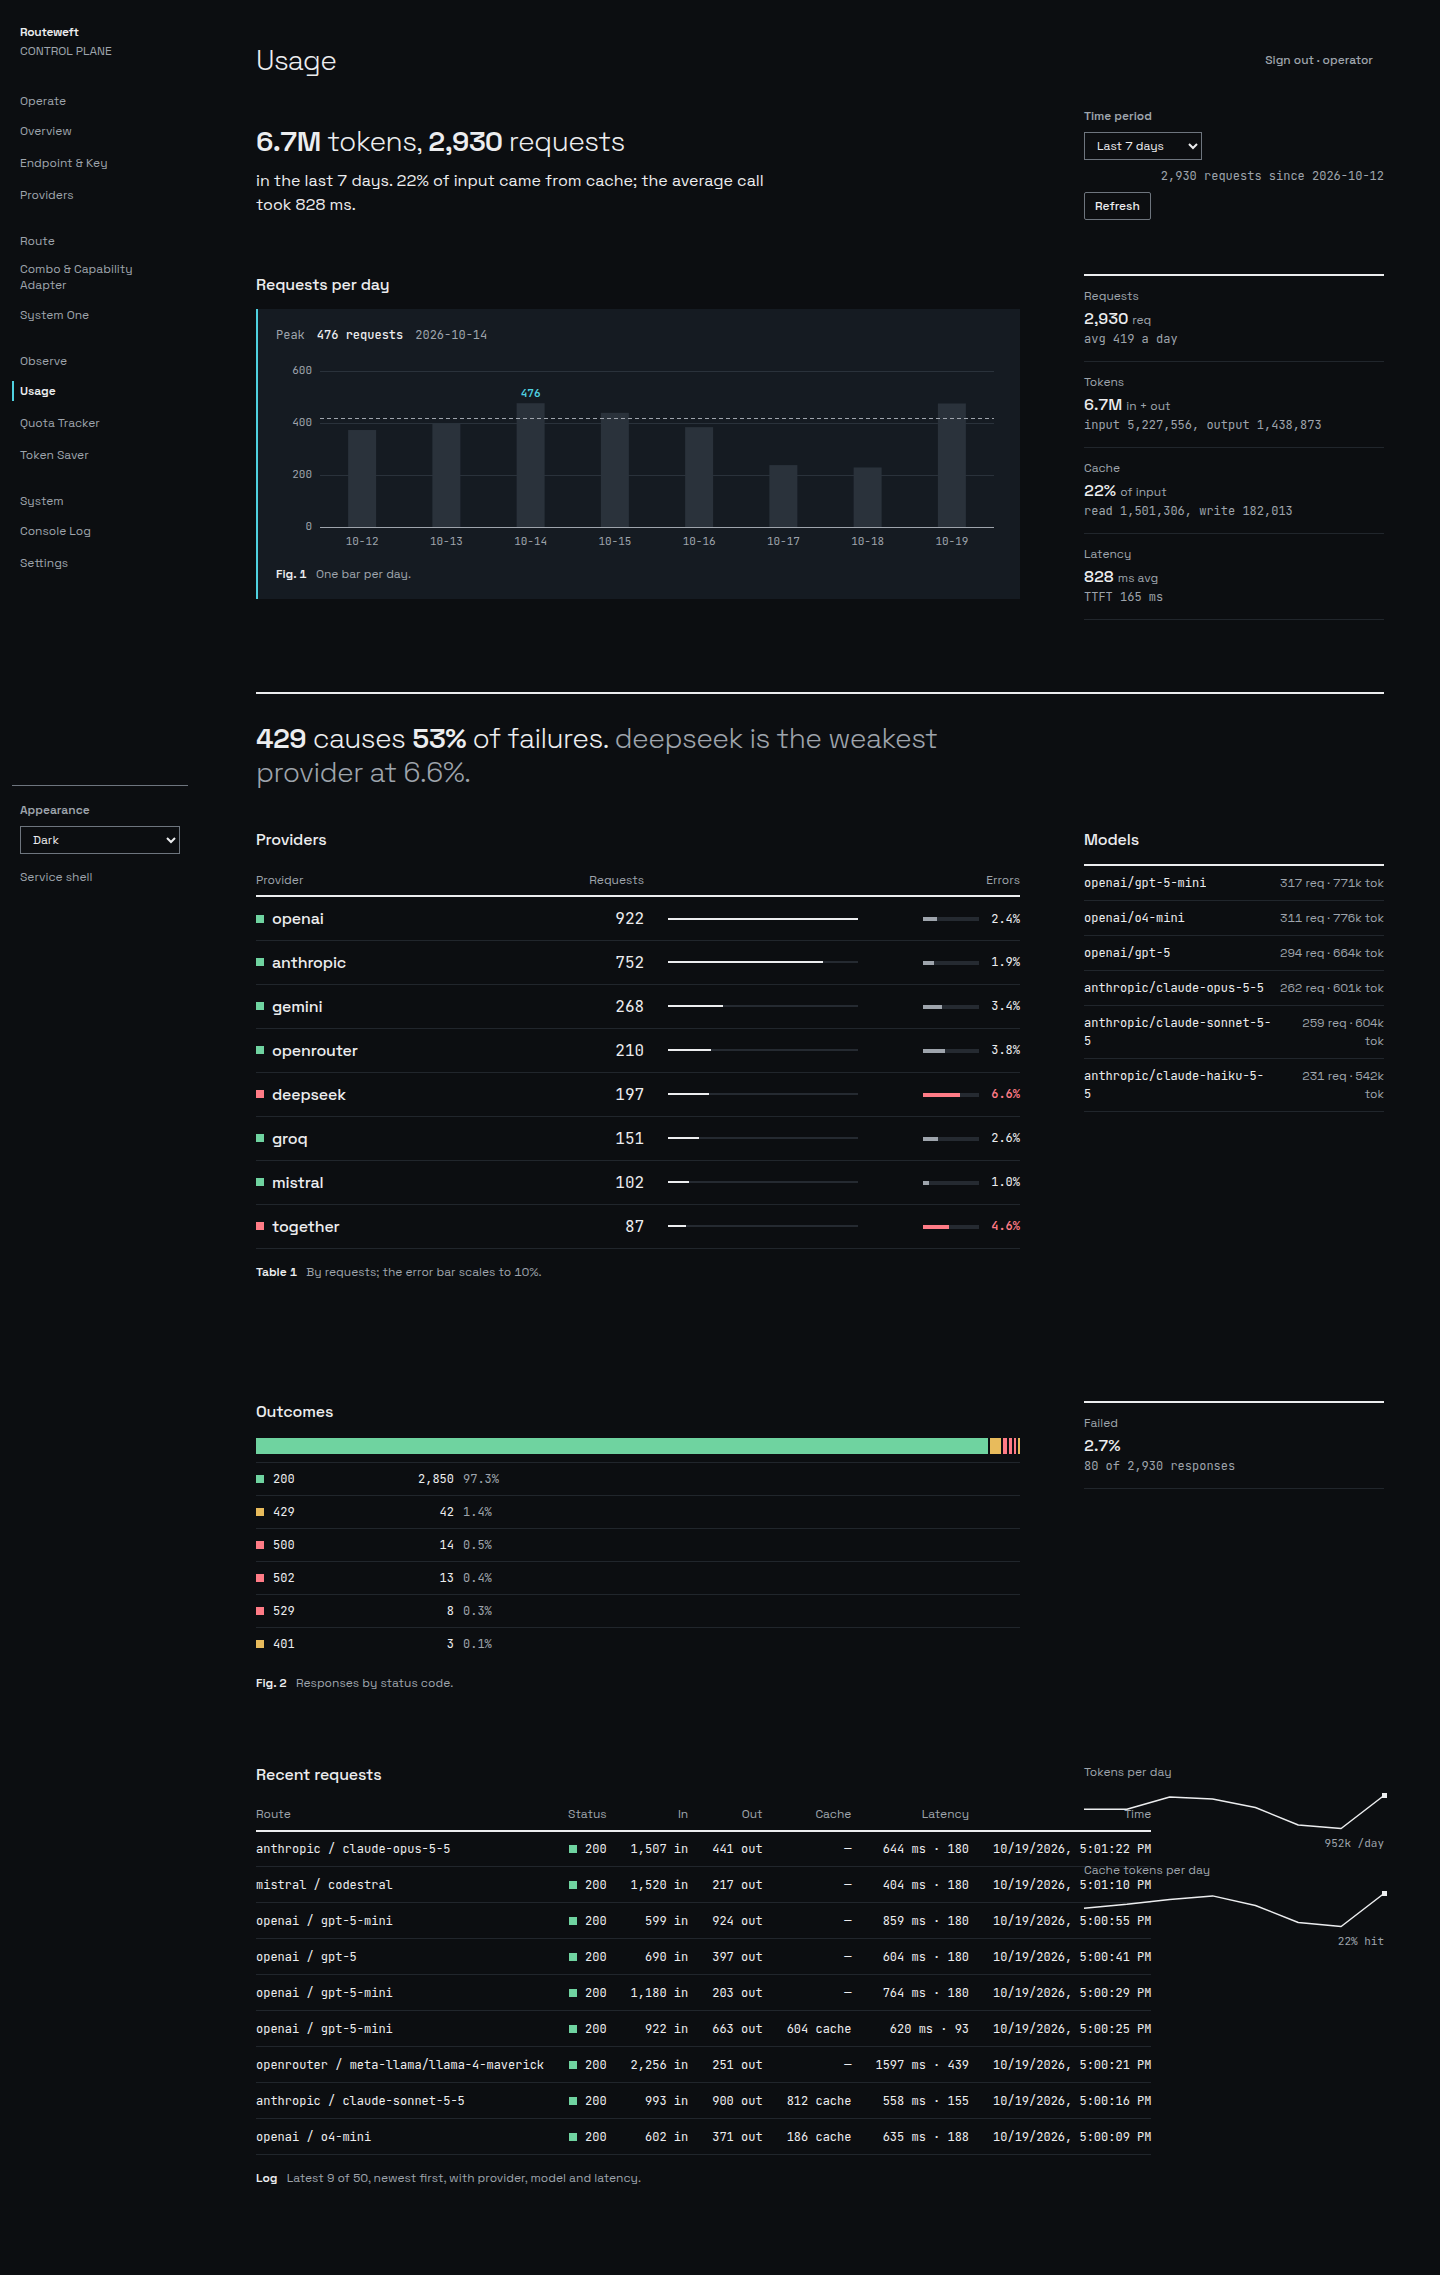
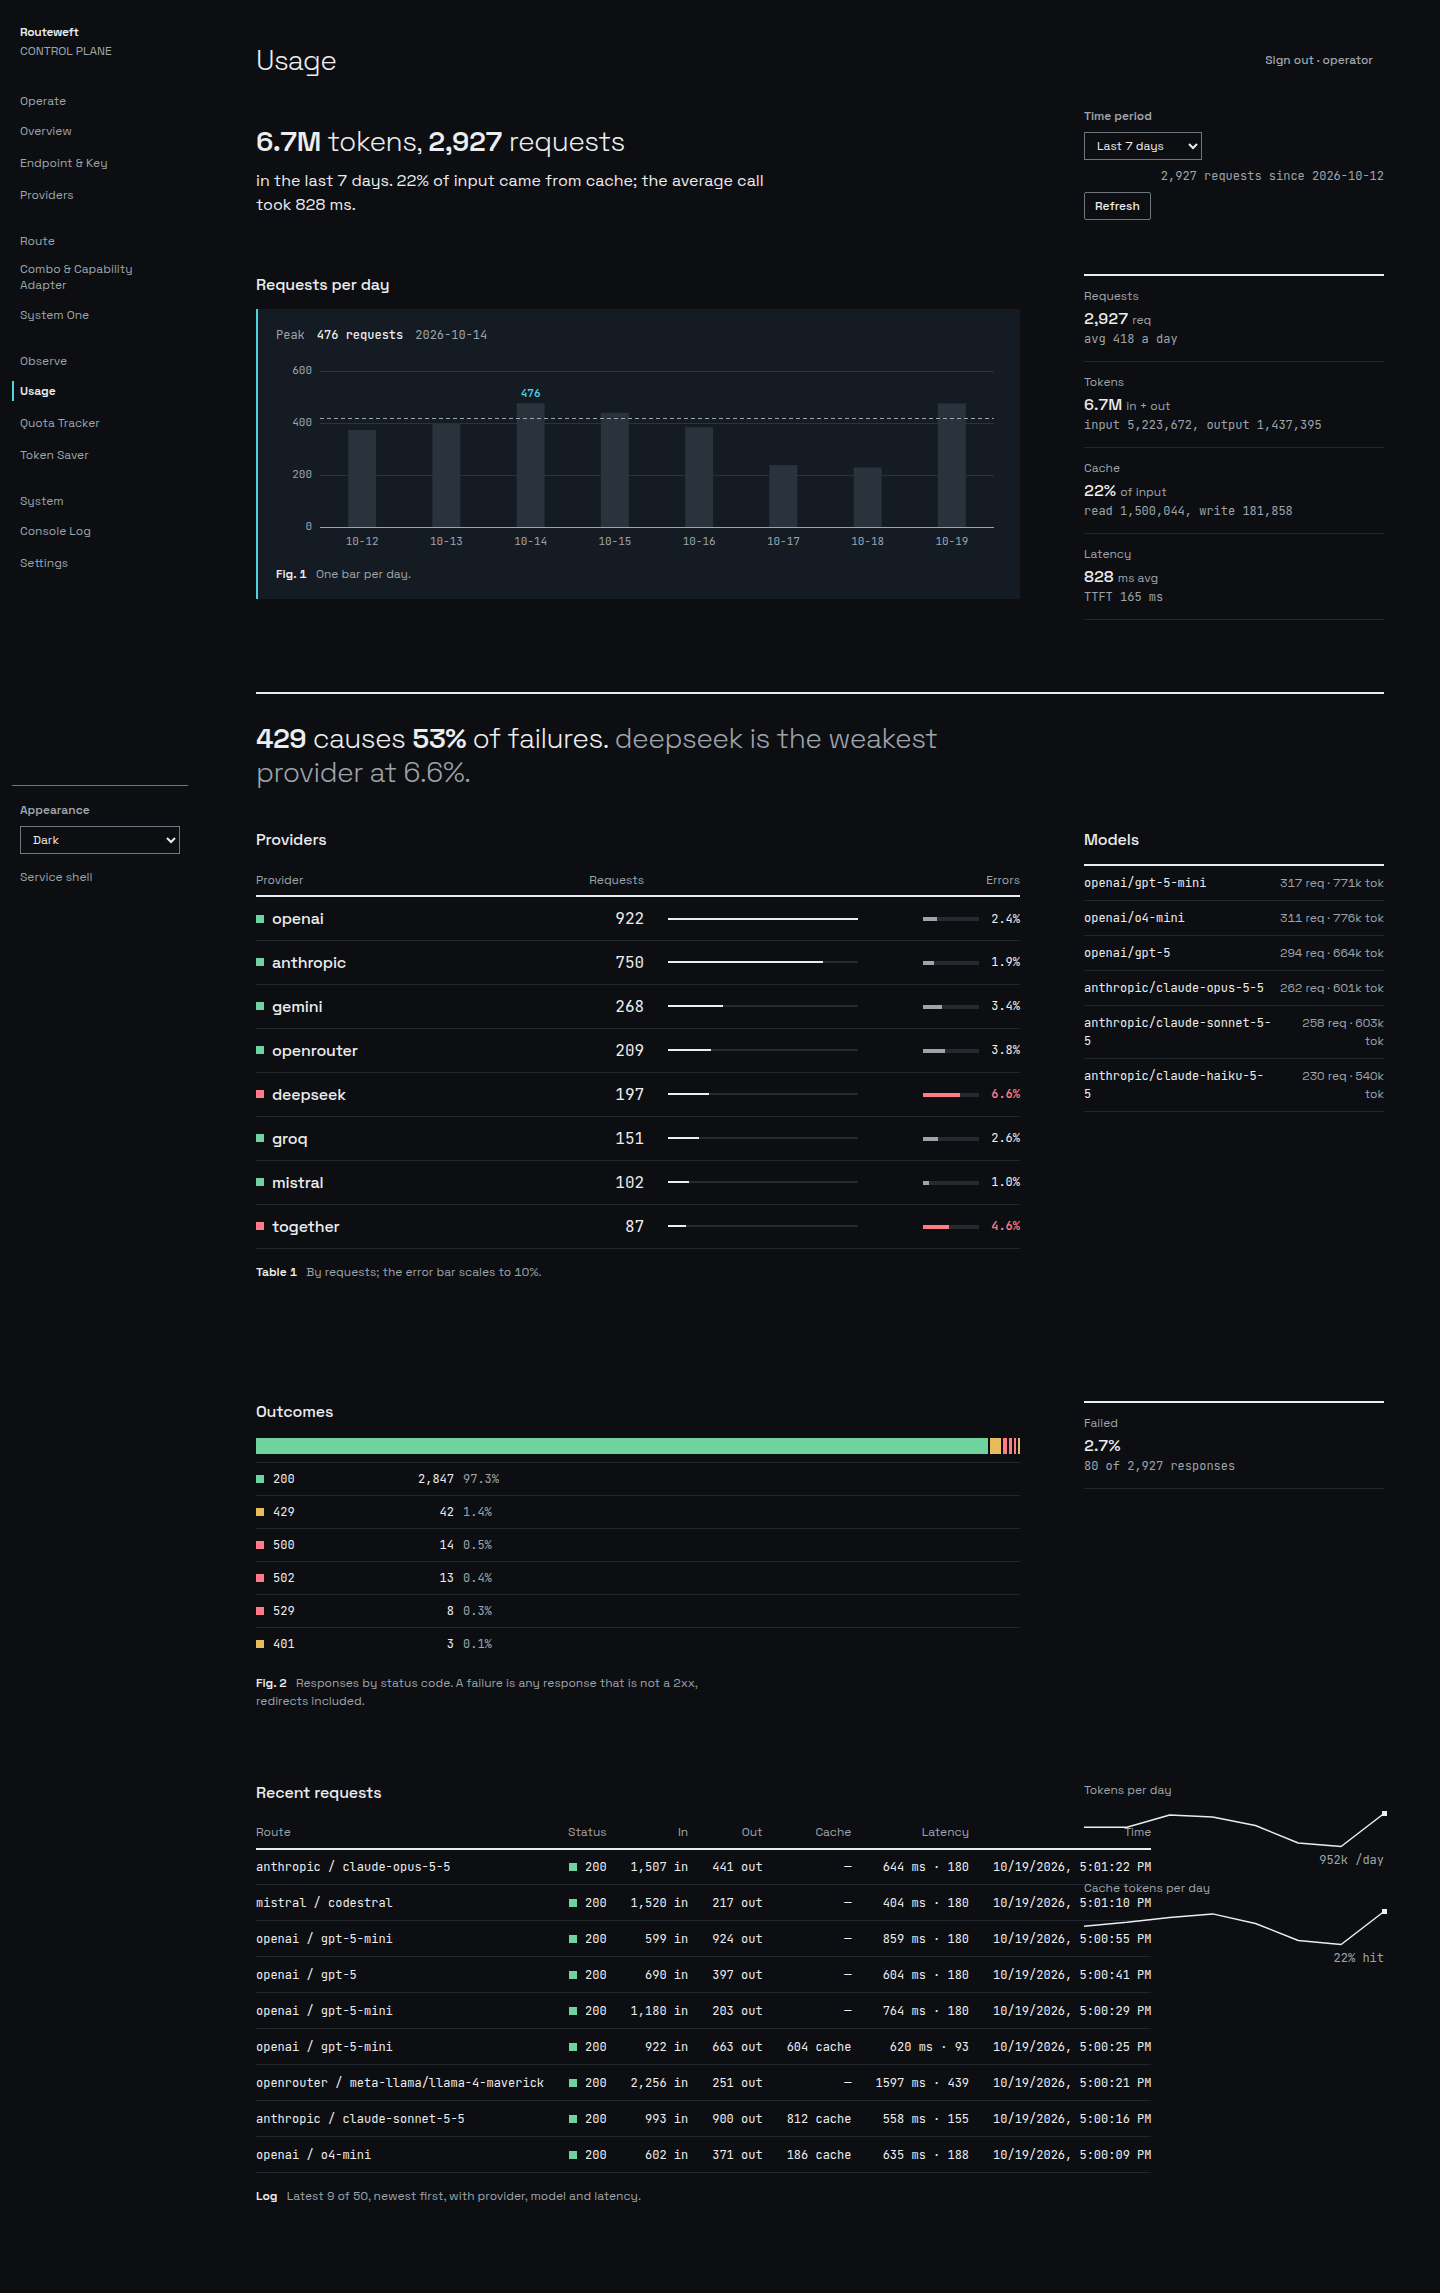
fix(ui): one definition of a failure, a real 11px check, and abortable usage fetch
- a failure is any non-2xx response, the API's own definition; isFailure() in format.ts is the single source, so Succeeded, Largest failure and the statement agree (3xx counts, its mark stays neutral)
- sparkline caption is 12px; the 11px smoke check no longer carves it out and is limited to SVG axis text
- the Providers 30-day usage fetch takes an abort signal and does not set state after it is superseded or unmounted
- BarChart reference takes only a value; the caption names the dashed line

diff --git a/ui/src/Usage.tsx b/ui/src/Usage.tsx
@@ -53,7 +53,6 @@ export function Usage({ onUnauthorized }: Props) {
   const fleet = t ? rate(t.errors, t.requests) : 0
   const failures = summary ? failureStatuses(summary.statuses) : []
   const topFail = failures[0]
-  const failureTotal = failures.reduce((total, item) => total + item.requests, 0)
   const worst = summary ? outlier(summary) : null
   const topProvider = Math.max(1, ...(summary?.providers.map(item => item.requests) ?? [1]))
   const lastWeek = prior ? sum(prior, 'requests') : undefined
@@ -84,7 +83,7 @@ export function Usage({ onUnauthorized }: Props) {
           {points.length === 0
             ? <EmptyState reason="No attributed usage in this period.">{period !== 'all' && <button className="button-secondary" type="button" onClick={() => setPeriod('all')}>Show all time</button>}</EmptyState>
             : <figure className="ed-figure usage-chart-panel accent-surface ed-plate">
-              <BarChart points={points} unit="requests" title="Requests per day" current={prior ? (index => index >= n - 7) : undefined} ghost={prior ? ghost : undefined} reference={n > 1 ? { value: t.requests / days, label: `average ${num(t.requests / days)}` } : undefined} />
+              <BarChart points={points} unit="requests" title="Requests per day" current={prior ? (index => index >= n - 7) : undefined} ghost={prior ? ghost : undefined} reference={n > 1 ? { value: t.requests / days } : undefined} />
               <figcaption><Caption kicker="Fig. 1">{prior ? `Cyan bars are the latest 7 days; each tick is the same day a week earlier. Dashed line: average ${num(t.requests / days)} a day.` : 'One bar per day.'}</Caption></figcaption>
             </figure>}
         </Main>
@@ -98,8 +97,8 @@ export function Usage({ onUnauthorized }: Props) {
         </Margin>
       </Row>
 
-      {topFail && failureTotal > 0 && <Statement>
-        <strong>{topFail.key}</strong> causes <strong>{Math.round((topFail.requests / failureTotal) * 100)}%</strong> of failures.{worst && badRate(worst.errors, worst.requests, fleet) ? <> <span className="ed-quiet">{worst.key} is the weakest provider at {pct(worst.err)}.</span></> : null}
+      {topFail && t.errors > 0 && <Statement>
+        <strong>{topFail.key}</strong> causes <strong>{Math.round((topFail.requests / Math.max(1, t.errors)) * 100)}%</strong> of failures.{worst && badRate(worst.errors, worst.requests, fleet) ? <> <span className="ed-quiet">{worst.key} is the weakest provider at {pct(worst.err)}.</span></> : null}
       </Statement>}
 
       <Row gap="s" label="Providers and models">
@@ -131,7 +130,7 @@ export function Usage({ onUnauthorized }: Props) {
             ? <EmptyState reason="No responses in this period." />
             : <figure className="ed-figure">
               <StackedBar title="Response status counts" segments={summary.statuses.map(item => ({ key: item.key, label: item.key, value: item.requests, tone: statusTone(item.key) }))} />
-              <figcaption><Caption kicker="Fig. 2">Responses by status code.</Caption></figcaption>
+              <figcaption><Caption kicker="Fig. 2">Responses by status code. A failure is any response that is not a 2xx, redirects included.</Caption></figcaption>
             </figure>}
         </Main>
         <Margin>

diff --git a/ui/src/Overview.tsx b/ui/src/Overview.tsx
@@ -46,7 +46,6 @@ export function Overview({ onUnauthorized }: Props) {
   const lighter = weekendLighter(series)
   const ghost = (index: number) => (prior && index >= n - 7 ? series[index - 7].requests : null)
   const failures = week ? failureStatuses(week.statuses) : []
-  const failureTotal = failures.reduce((total, item) => total + item.requests, 0)
   const shown = events.slice(0, 7)
   const slow = [...shown].sort((a, b) => (b.durationMs ?? 0) - (a.durationMs ?? 0))[0]
   const fast = [...shown].sort((a, b) => (a.durationMs ?? 0) - (b.durationMs ?? 0))[0]
@@ -74,7 +73,7 @@ export function Overview({ onUnauthorized }: Props) {
     {n > 0 && t && m && peak && <Row gap="s" label="Requests per day">
       <Main title="Requests per day">
         <figure className="ed-figure">
-          <BarChart points={points} unit="requests" title="Requests per day, 30 days" shade={isWeekend} current={index => index >= n - 7} ghost={ghost} reference={{ value: average, label: `30-day average ${num(average)}` }} />
+          <BarChart points={points} unit="requests" title="Requests per day, 30 days" shade={isWeekend} current={index => index >= n - 7} ghost={ghost} reference={{ value: average }} />
           <figcaption><Caption kicker="Fig. 1">Last 30 days. Cyan bars are this week; each white tick is the same day a week earlier. The dashed line is the 30-day average ({num(average)}), weekends shaded.</Caption></figcaption>
         </figure>
       </Main>
@@ -117,13 +116,13 @@ export function Overview({ onUnauthorized }: Props) {
       <Main title="Outcomes">
         <figure className="ed-figure">
           <StackedBar title="Response status counts" segments={week.statuses.map(item => ({ key: item.key, label: item.key, value: item.requests, tone: statusTone(item.key) }))} />
-          <figcaption><Caption kicker="Fig. 2">Responses in the last 7 days by status code.</Caption></figcaption>
+          <figcaption><Caption kicker="Fig. 2">Responses in the last 7 days by status code. A failure is any response that is not a 2xx, redirects included.</Caption></figcaption>
         </figure>
       </Main>
       <Margin>
         <dl className="ed-facts">
           <Fact label="Succeeded" value={pct(100 - err)} note={`${num(t.requests - t.errors)} of ${num(t.requests)} responses`} />
-          {failures[0] && <Fact label="Largest failure" value={failures[0].key} note={`${num(failures[0].requests)} of ${num(failureTotal)} failures (${Math.round((failures[0].requests / Math.max(1, failureTotal)) * 100)}%)`} />}
+          {failures[0] && <Fact label="Largest failure" value={failures[0].key} note={`${num(failures[0].requests)} of ${num(t.errors)} failures (${Math.round((failures[0].requests / Math.max(1, t.errors)) * 100)}%)`} />}
         </dl>
       </Margin>
     </Row>}

diff --git a/ui/src/Providers.tsx b/ui/src/Providers.tsx
@@ -45,6 +45,7 @@ export function Providers({ onUnauthorized }: Props) {
   const [aliasTarget, setAliasTarget] = useState('')
   const [price, setPrice] = useState({ modelId: '', input: '', output: '', cacheRead: '', cacheWrite: '' })
   const modelProbeController = useRef<AbortController | null>(null)
+  const usageAbort = useRef<AbortController | null>(null)
 
   const load = useCallback(async () => {
     setLoading(true)
@@ -62,7 +63,10 @@ export function Providers({ onUnauthorized }: Props) {
       setProviders([...loadedProviders, ...genericProviders])
       setProxyPools(loadedPools)
       // Traffic and error rates enrich the list; the catalog works without them.
-      void fetch('/admin/v1/usage/summary?period=30d', { credentials: 'same-origin' }).then(response => (response.ok ? response.json() : null)).then(value => setUsage(value as Summary | null)).catch(() => setUsage(null))
+      usageAbort.current?.abort()
+      const usageController = new AbortController()
+      usageAbort.current = usageController
+      void fetch('/admin/v1/usage/summary?period=30d', { credentials: 'same-origin', signal: usageController.signal }).then(response => (response.ok ? response.json() : null)).then(value => { if (!usageController.signal.aborted) setUsage(value as Summary | null) }).catch(() => { if (!usageController.signal.aborted) setUsage(null) })
     } catch (cause) {
       setError(cause instanceof Error ? cause.message : 'Could not load Providers.')
       setLoadFailed(true)
@@ -70,7 +74,7 @@ export function Providers({ onUnauthorized }: Props) {
   }, [onUnauthorized])
 
   useEffect(() => { void load() }, [load])
-  useEffect(() => () => modelProbeController.current?.abort(), [])
+  useEffect(() => () => { modelProbeController.current?.abort(); usageAbort.current?.abort() }, [])
 
   const selectedProvider = providers.find(provider => provider.id === selected)
   const selectedNode = nodes.find(node => node.kind === 'generic' && node.providerId === selected)

diff --git a/ui/src/format.test.ts b/ui/src/format.test.ts
@@ -1,6 +1,6 @@
 import assert from 'node:assert/strict'
 import { test } from 'node:test'
-import { ago, badRate, compact, delta, isWeekend, outlier, pct, priorWeek, providerTone, rate, failureStatuses, share, statusTone, topByRequests, weekendLighter, type Day, type Summary } from './format.ts'
+import { ago, badRate, compact, delta, isWeekend, outlier, pct, priorWeek, providerTone, rate, failureStatuses, isFailure, share, statusTone, topByRequests, weekendLighter, type Day, type Summary } from './format.ts'
 
 test('compact keeps small numbers exact and abbreviates large ones', () => {
   assert.equal(compact(950), '950')
@@ -104,7 +104,14 @@ test('topByRequests ignores the display order of the list', () => {
   assert.deepEqual(topByRequests([{ id: 'b', requests: 5 }, { id: 'a', requests: 5 }], 1).map(row => row.id), ['a'])
 })
 
-test('failureStatuses counts client and server errors, not redirects', () => {
+test('a failure is any non-2xx response, the same set the API counts as errors', () => {
   const rows = [{ key: '200', requests: 900 }, { key: '302', requests: 50 }, { key: '429', requests: 30 }, { key: '503', requests: 20 }]
-  assert.deepEqual(failureStatuses(rows).map(row => row.key), ['429', '503'])
+  const failures = failureStatuses(rows)
+  assert.deepEqual(failures.map(row => row.key), ['302', '429', '503'])
+  const failed = failures.reduce((total, row) => total + row.requests, 0)
+  assert.equal(failed, 100)
+  assert.equal(100 - (failed / 1000) * 100, 90)
+  assert.equal(isFailure(204), false)
+  assert.equal(isFailure('199'), true)
+  assert.equal(isFailure(302), true)
 })

diff --git a/ui/src/format.ts b/ui/src/format.ts
@@ -109,7 +109,14 @@ export function topByRequests<T extends { id: string; requests: number }>(rows: 
   return [...rows].sort((a, b) => b.requests - a.requests || a.id.localeCompare(b.id)).slice(0, count)
 }
 
-// Responses that count as failures: the same classification the status marks use (client and server errors).
+// A failure is any response that is not a 2xx, exactly the API's definition of `errors`
+// (internal/control/api/usage_summary.go: status < 200 OR status >= 300), so class breakdowns and the totals agree.
+// Redirects therefore count as failures here even though their mark is neutral (see statusTone).
+export function isFailure(status: number | string) {
+  const code = typeof status === 'number' ? status : Number.parseInt(status, 10)
+  return !(code >= 200 && code < 300)
+}
+
 export function failureStatuses<T extends { key: string; requests: number }>(statuses: T[]) {
-  return statuses.filter(item => { const tone = statusTone(item.key); return tone === 'warn' || tone === 'bad' }).sort((a, b) => b.requests - a.requests)
+  return statuses.filter(item => isFailure(item.key)).sort((a, b) => b.requests - a.requests)
 }

diff --git a/ui/src/kit.tsx b/ui/src/kit.tsx
@@ -26,7 +26,7 @@ function useWidth(fallback: number) {
 }
 
 // Bar chart with axis, gridlines, peak label and a hover/keyboard readout. Plain SVG, no dependencies.
-export function BarChart({ points, unit, title, shade, current, ghost, reference }: { points: ChartPoint[]; unit: string; title: string; shade?: (label: string) => boolean; current?: (index: number) => boolean; ghost?: (index: number) => number | null; reference?: { value: number; label: string } }) {
+export function BarChart({ points, unit, title, shade, current, ghost, reference }: { points: ChartPoint[]; unit: string; title: string; shade?: (label: string) => boolean; current?: (index: number) => boolean; ghost?: (index: number) => number | null; reference?: { value: number } }) {
   const [ref, width] = useWidth(640)
   const [active, setActive] = useState<number | null>(null)
   if (points.length === 0) return null

diff --git a/ui/src/style.css b/ui/src/style.css
@@ -651,7 +651,7 @@ tbody tr:hover { background: var(--surface-2); }
 .page-error.auth-error { display: flex; align-items: center; }
 .page-error.auth-error p { flex: 1; margin: 0; }
 tr.usage-event { display: table-row; }
-.sparkline-caption { position: absolute; right: 0; bottom: -16px; color: var(--text-muted); font-family: var(--font-mono); font-size: var(--t-label); }
+.sparkline-caption { position: absolute; right: 0; bottom: -16px; color: var(--text-muted); font-family: var(--font-mono); font-size: var(--t-body); }
 .sparkline { margin-bottom: 16px; }
 
 /* ---- Editorial layer (direction B): a main column and a 300px margin column; labels in sentence case; gaps 40 / 72 / 120 ---- */

diff --git a/docs/UI_STYLE.md b/docs/UI_STYLE.md
@@ -121,6 +121,10 @@ Implemented in `ui/src/editorial.tsx` and `ui/src/style.css`.
 - **Status is never colour alone:** an 8px square (`.dot`) beside the word. One
   classification serves every mark: HTTP 2xx good, 3xx idle (a hollow square), 4xx warn, 5xx bad.
   A provider's square is red under the same rule as its error figure (below).
+  A *failure* is any response that is not a 2xx, the API's own definition of
+  `errors` (`usage_summary.go`), so "failed", "Succeeded" and "Largest failure"
+  always agree; redirects count in those totals though their mark is neutral.
+  The rule lives in `isFailure()` in `ui/src/format.ts`.
 - **Accent surface** (`.accent-surface`): exactly one per page, marking the most
   important live thing (Overview: the live card; Usage: the daily chart plate;
   Providers: the provider summary banner; other pages: their toolbar or primary
